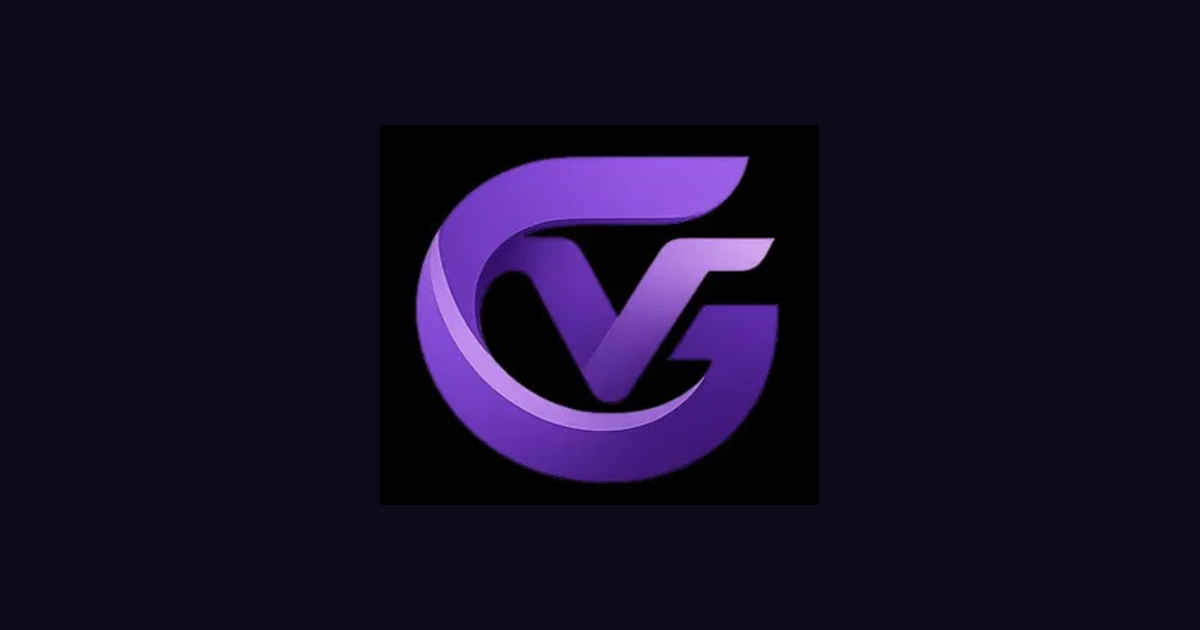
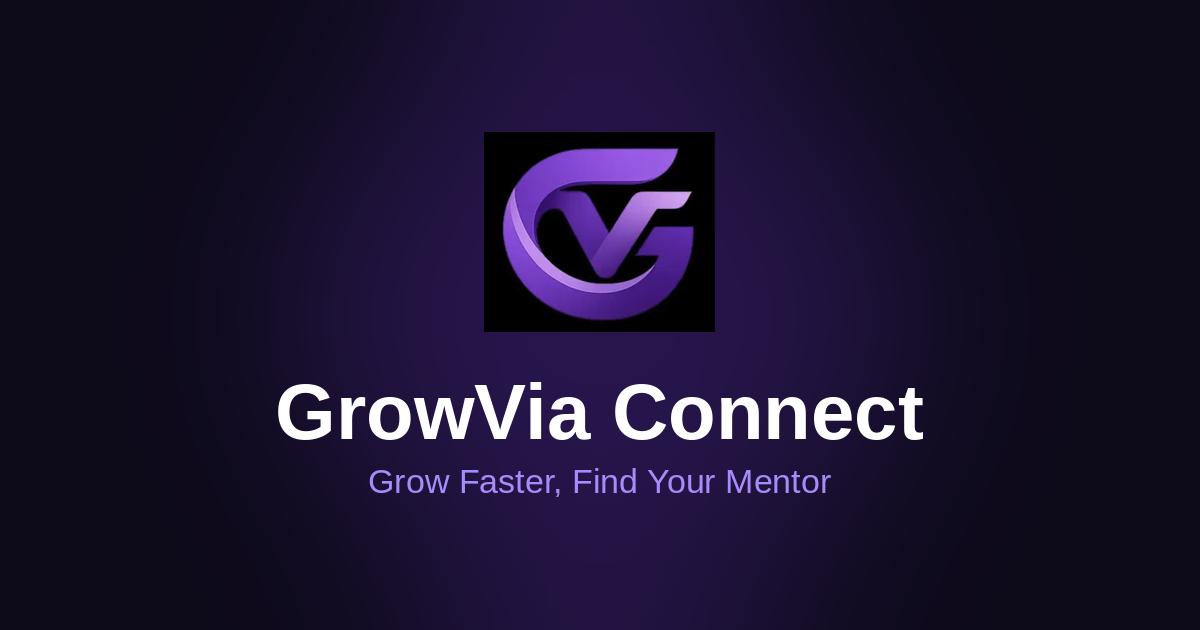
SEO: longer title + description + text baked into og-image
- title: "GrowVia Connect - Grow Faster, Find Your Mentor" (47 chars,
  hits Google's rendering window before truncation)
- description: 159 chars — mentions the platform, target audience,
  vetted mentors, breadth of fields, and closes with the value prop.
  Sits right at the top of Google's 160-char SERP cutoff
- og-image.png regenerated: same 1200x630 dark canvas, but the logo is
  now centred with "GrowVia Connect" (78pt LiberationSans Bold, white)
  and "Grow Faster, Find Your Mentor" (34pt Regular, accent violet
  #A78BFA) stacked beneath it. Subtle 120px-blur violet glow behind
  the logo matches the site's radial-gradient hero treatment
- openGraph and twitter blocks now use the extended title in their own
  title fields (was still the short "GrowVia Connect" before) and the
  new alt text on the OG image reflects the tagline

Claude-Session: https://claude.ai/code/session_01QzxuMMA9iR6aLb1gerkK3s

diff --git a/src/app/layout.tsx b/src/app/layout.tsx
@@ -11,12 +11,13 @@ const APP_URL = process.env.NEXT_PUBLIC_APP_URL ?? "https://growviaconnect.com";
 
 // Description defaults to English; the French version stays available under
 // `alternates.languages` so localised previews render correctly.
-const DESCRIPTION_EN = "The mentorship platform for students and young professionals";
+const TITLE_EN       = "GrowVia Connect - Grow Faster, Find Your Mentor";
+const DESCRIPTION_EN = "GrowVia Connect is the mentorship platform connecting students and young professionals with verified mentors across every field. Find your mentor, grow faster.";
 const DESCRIPTION_FR = "La plateforme de mentorat pour étudiants et jeunes professionnels";
 
 export const metadata: Metadata = {
   metadataBase: new URL(APP_URL),
-  title: "GrowVia Connect",
+  title: TITLE_EN,
   description: DESCRIPTION_EN,
   keywords: "mentorship, career guidance, mentoring platform, AI matching, career coaching",
   icons: {
@@ -36,7 +37,7 @@ export const metadata: Metadata = {
   openGraph: {
     type:        "website",
     siteName:    "GrowVia Connect",
-    title:       "GrowVia Connect",
+    title:       TITLE_EN,
     description: DESCRIPTION_EN,
     url:         APP_URL,
     locale:      "en_US",
@@ -46,13 +47,13 @@ export const metadata: Metadata = {
         url:    "/og-image.png",
         width:  1200,
         height: 630,
-        alt:    "GrowVia Connect — mentorship platform",
+        alt:    "GrowVia Connect — Grow Faster, Find Your Mentor",
       },
     ],
   },
   twitter: {
     card:        "summary_large_image",
-    title:       "GrowVia Connect",
+    title:       TITLE_EN,
     description: DESCRIPTION_EN,
     images:      ["/og-image.png"],
   },
